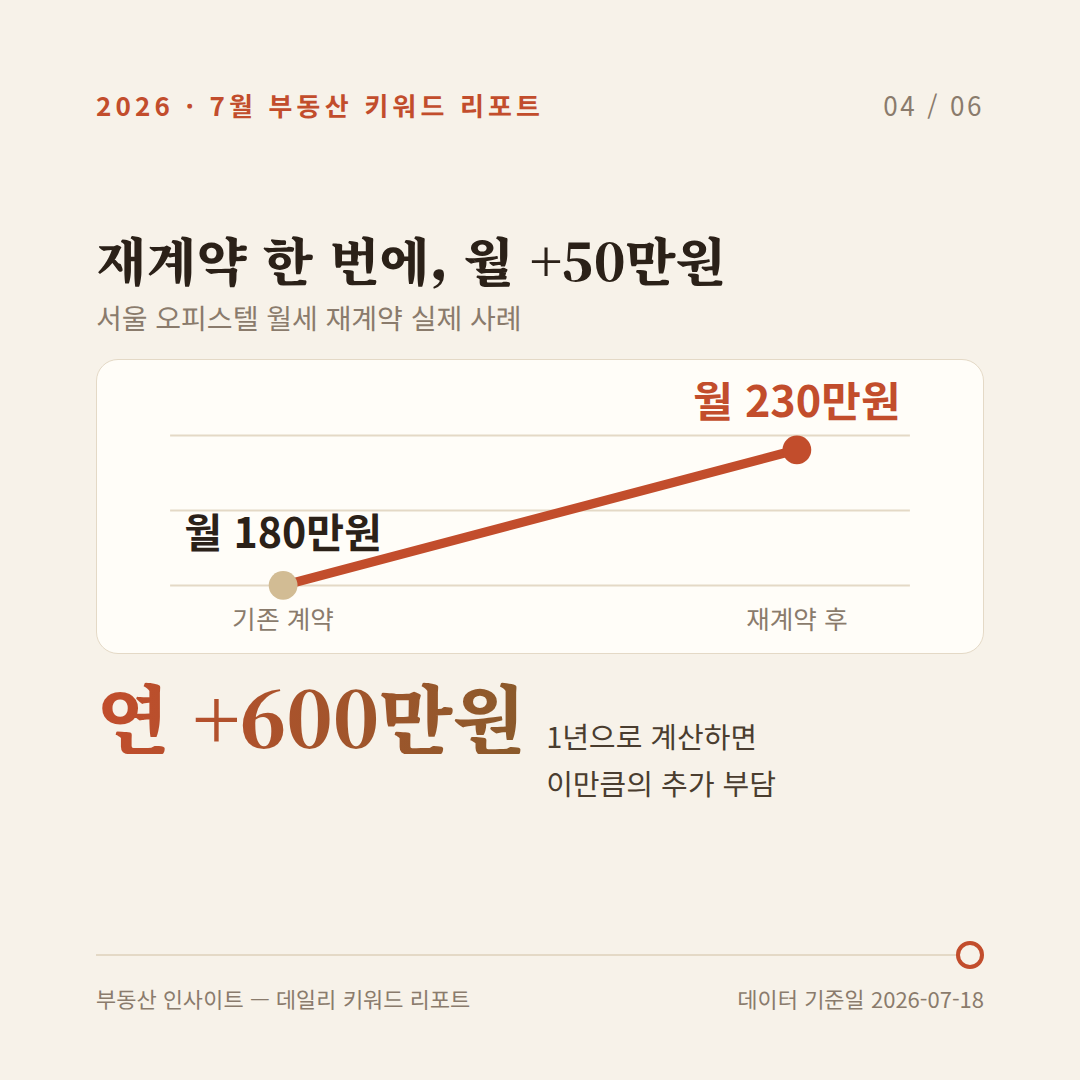
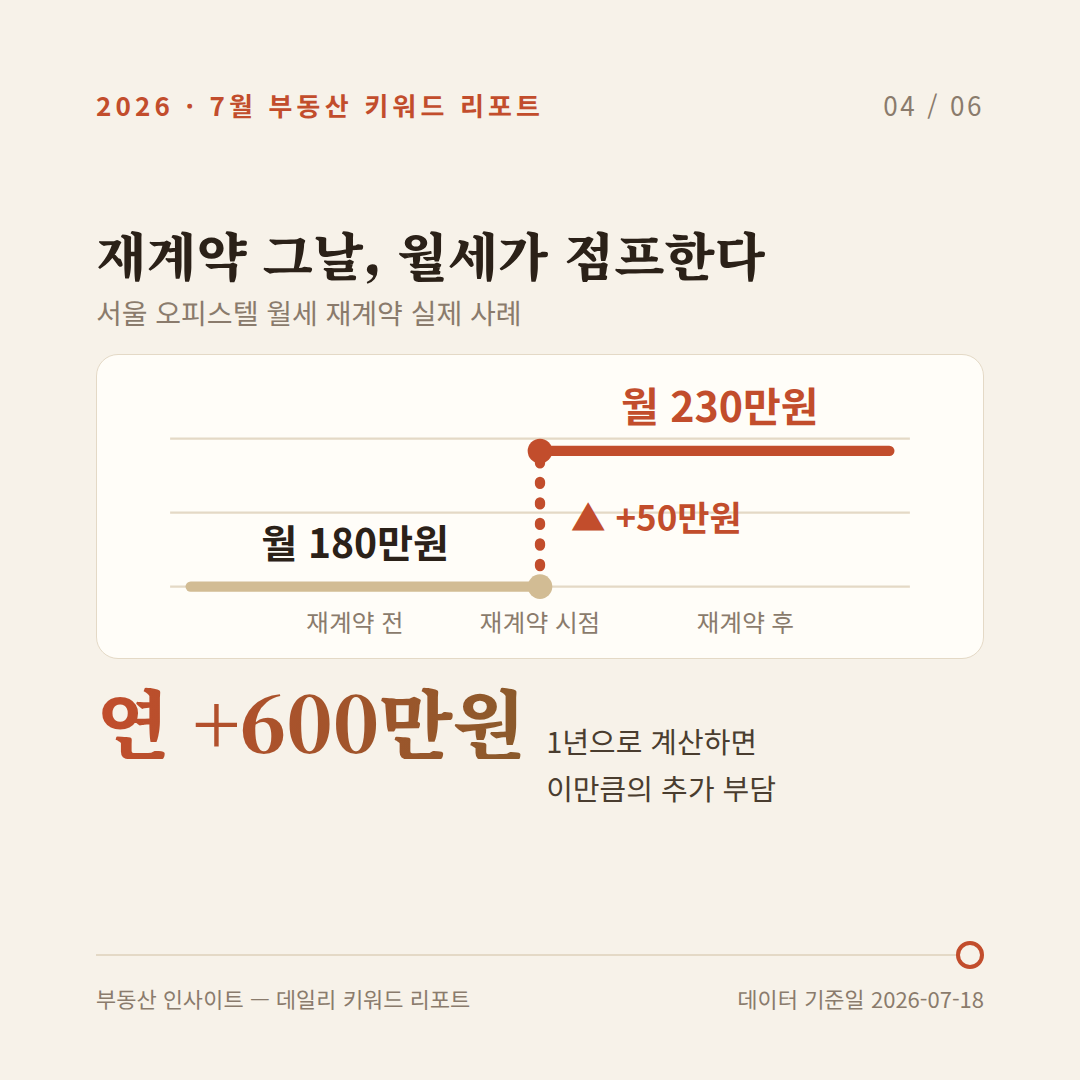
Replace slope with step chart for the renewal jump
A straight line between two points reads as a gradual trend; the rent
rise is a one-time jump at renewal. The chart now shows a flat 180
segment, a dotted vertical +500k jump at the renewal point, and a flat
230 segment, on both card 4 and the post. Standards updated: step for
single-event changes, slope only for endpoints of a continuous trend.

Claude-Session: https://claude.ai/code/session_014FPhCKpii9mVmDWMzN6gma

Changed region(s): [[0.1528, 0.3361, 0.8556, 0.7639], [0.0917, 0.2139, 0.7028, 0.3056], [0.0917, 0.6111, 0.1528, 0.7028]]

diff --git a/posts/2026-07-18-wolse100.html b/posts/2026-07-18-wolse100.html
@@ -254,21 +254,24 @@ footer a{color:var(--teal)}
     <div class="cap">전세는 한 분기 만에 상승폭이 두 배 가까이(+0.24→+0.40) 커졌고, 월세가 가장 가파릅니다.</div>
 
     <h4>월세 재계약 사례 (만원/월)</h4>
-    <svg viewBox="0 0 800 250" style="width:100%;max-width:560px;height:auto;display:block" role="img"
-      aria-label="월세 재계약 슬로프 차트: 기존 계약 180만원에서 재계약 230만원으로 28% 상승">
-      <line x1="40" y1="52"  x2="760" y2="52"  style="stroke:var(--line);stroke-width:2"/>
-      <line x1="40" y1="125" x2="760" y2="125" style="stroke:var(--line);stroke-width:2"/>
-      <line x1="40" y1="198" x2="760" y2="198" style="stroke:var(--line);stroke-width:2"/>
-      <line x1="150" y1="198" x2="650" y2="66" style="stroke:var(--teal);stroke-width:8;stroke-linecap:round"/>
-      <circle cx="150" cy="198" r="12" style="fill:var(--fillgray)"/>
-      <circle cx="650" cy="66" r="12" style="fill:var(--teal)"/>
-      <text x="150" y="164" text-anchor="middle" style="font-family:'Noto Sans KR',sans-serif;font-weight:900;font-size:36px;fill:var(--ink)">180</text>
-      <text x="650" y="36" text-anchor="middle" style="font-family:'Noto Sans KR',sans-serif;font-weight:900;font-size:40px;fill:var(--teal)">230</text>
-      <text x="400" y="105" text-anchor="middle" style="font-family:'Noto Sans KR',sans-serif;font-weight:900;font-size:34px;fill:var(--teal)">+28%</text>
-      <text x="150" y="238" text-anchor="middle" style="font-family:'Noto Sans KR',sans-serif;font-size:24px;fill:var(--mute)">기존 계약</text>
-      <text x="650" y="238" text-anchor="middle" style="font-family:'Noto Sans KR',sans-serif;font-size:24px;fill:var(--mute)">재계약</text>
+    <svg viewBox="0 0 800 260" style="width:100%;max-width:560px;height:auto;display:block" role="img"
+      aria-label="월세 재계약 계단형 차트: 재계약 전 월 180만원, 재계약 시점에 한 번에 50만원 올라 월 230만원">
+      <line x1="40" y1="60"  x2="760" y2="60"  style="stroke:var(--line);stroke-width:2"/>
+      <line x1="40" y1="132" x2="760" y2="132" style="stroke:var(--line);stroke-width:2"/>
+      <line x1="40" y1="204" x2="760" y2="204" style="stroke:var(--line);stroke-width:2"/>
+      <path d="M60,204 H400" style="stroke:var(--fillgray);stroke-width:9;stroke-linecap:round;fill:none"/>
+      <path d="M400,204 V72" style="stroke:var(--teal);stroke-width:9;stroke-linecap:round;fill:none;stroke-dasharray:2 16"/>
+      <path d="M400,72 H740" style="stroke:var(--teal);stroke-width:9;stroke-linecap:round;fill:none"/>
+      <circle cx="400" cy="204" r="11" style="fill:var(--fillgray)"/>
+      <circle cx="400" cy="72" r="11" style="fill:var(--teal)"/>
+      <text x="220" y="176" text-anchor="middle" style="font-family:'Noto Sans KR',sans-serif;font-weight:900;font-size:36px;fill:var(--ink)">월 180만원</text>
+      <text x="575" y="44" text-anchor="middle" style="font-family:'Noto Sans KR',sans-serif;font-weight:900;font-size:38px;fill:var(--teal)">월 230만원</text>
+      <text x="428" y="150" text-anchor="start" style="font-family:'Noto Sans KR',sans-serif;font-weight:900;font-size:32px;fill:var(--teal)">▲ +50만원</text>
+      <text x="220" y="248" text-anchor="middle" style="font-family:'Noto Sans KR',sans-serif;font-size:23px;fill:var(--mute)">재계약 전</text>
+      <text x="400" y="248" text-anchor="middle" style="font-family:'Noto Sans KR',sans-serif;font-size:23px;fill:var(--mute)">재계약 시점</text>
+      <text x="600" y="248" text-anchor="middle" style="font-family:'Noto Sans KR',sans-serif;font-size:23px;fill:var(--mute)">재계약 후</text>
     </svg>
-    <div class="cap">한 번의 재계약으로 월 부담이 28% 늘어난 보도 사례.</div>
+    <div class="cap">중간에 서서히 오른 게 아니라 재계약 시점에 한 번에 +50만원(+28%) 뛴 사례입니다.</div>
   </div>
 
   <h3>숫자로 보는 월세 100 시대</h3>

diff --git a/CLAUDE.md b/CLAUDE.md
@@ -25,7 +25,9 @@ URL: https://mkrealestate4s.github.io/mynews/
   막대 밖에 배치(.railval).
 - 단위·기간이 다른 수치를 한 축에 섞지 않는다(주간/분기/연간 분리).
 - **형태 다양화**: 인접한 차트·카드가 같은 형태(가로 막대 연속 등)로 반복되지 않게 한다.
-  시계열→세로 컬럼, 전/후 변화→슬로프(SVG 기울기 선), 크기 비교→가로 막대, 헤드라인→대형 스탯.
+  시계열→세로 컬럼, 크기 비교→가로 막대, 헤드라인→대형 스탯.
+  전/후 변화는 **성격에 맞게**: 한 번에 점프한 단일 사건(재계약 등)은 계단형(step, 점선 수직 점프)으로,
+  연속 추이의 양 끝 비교만 있을 때만 슬로프로. 두 점을 직선으로 이으면 중간 추세로 오독될 수 있음.
   차트 주석 라벨은 막대 높이에 영향 없는 절대 위치 레이어에 그린다.
 - 카드뉴스도 그래프 우선: 표지+흐름+데이터 3~4장+체크리스트, 6장 구성 기본.
 
